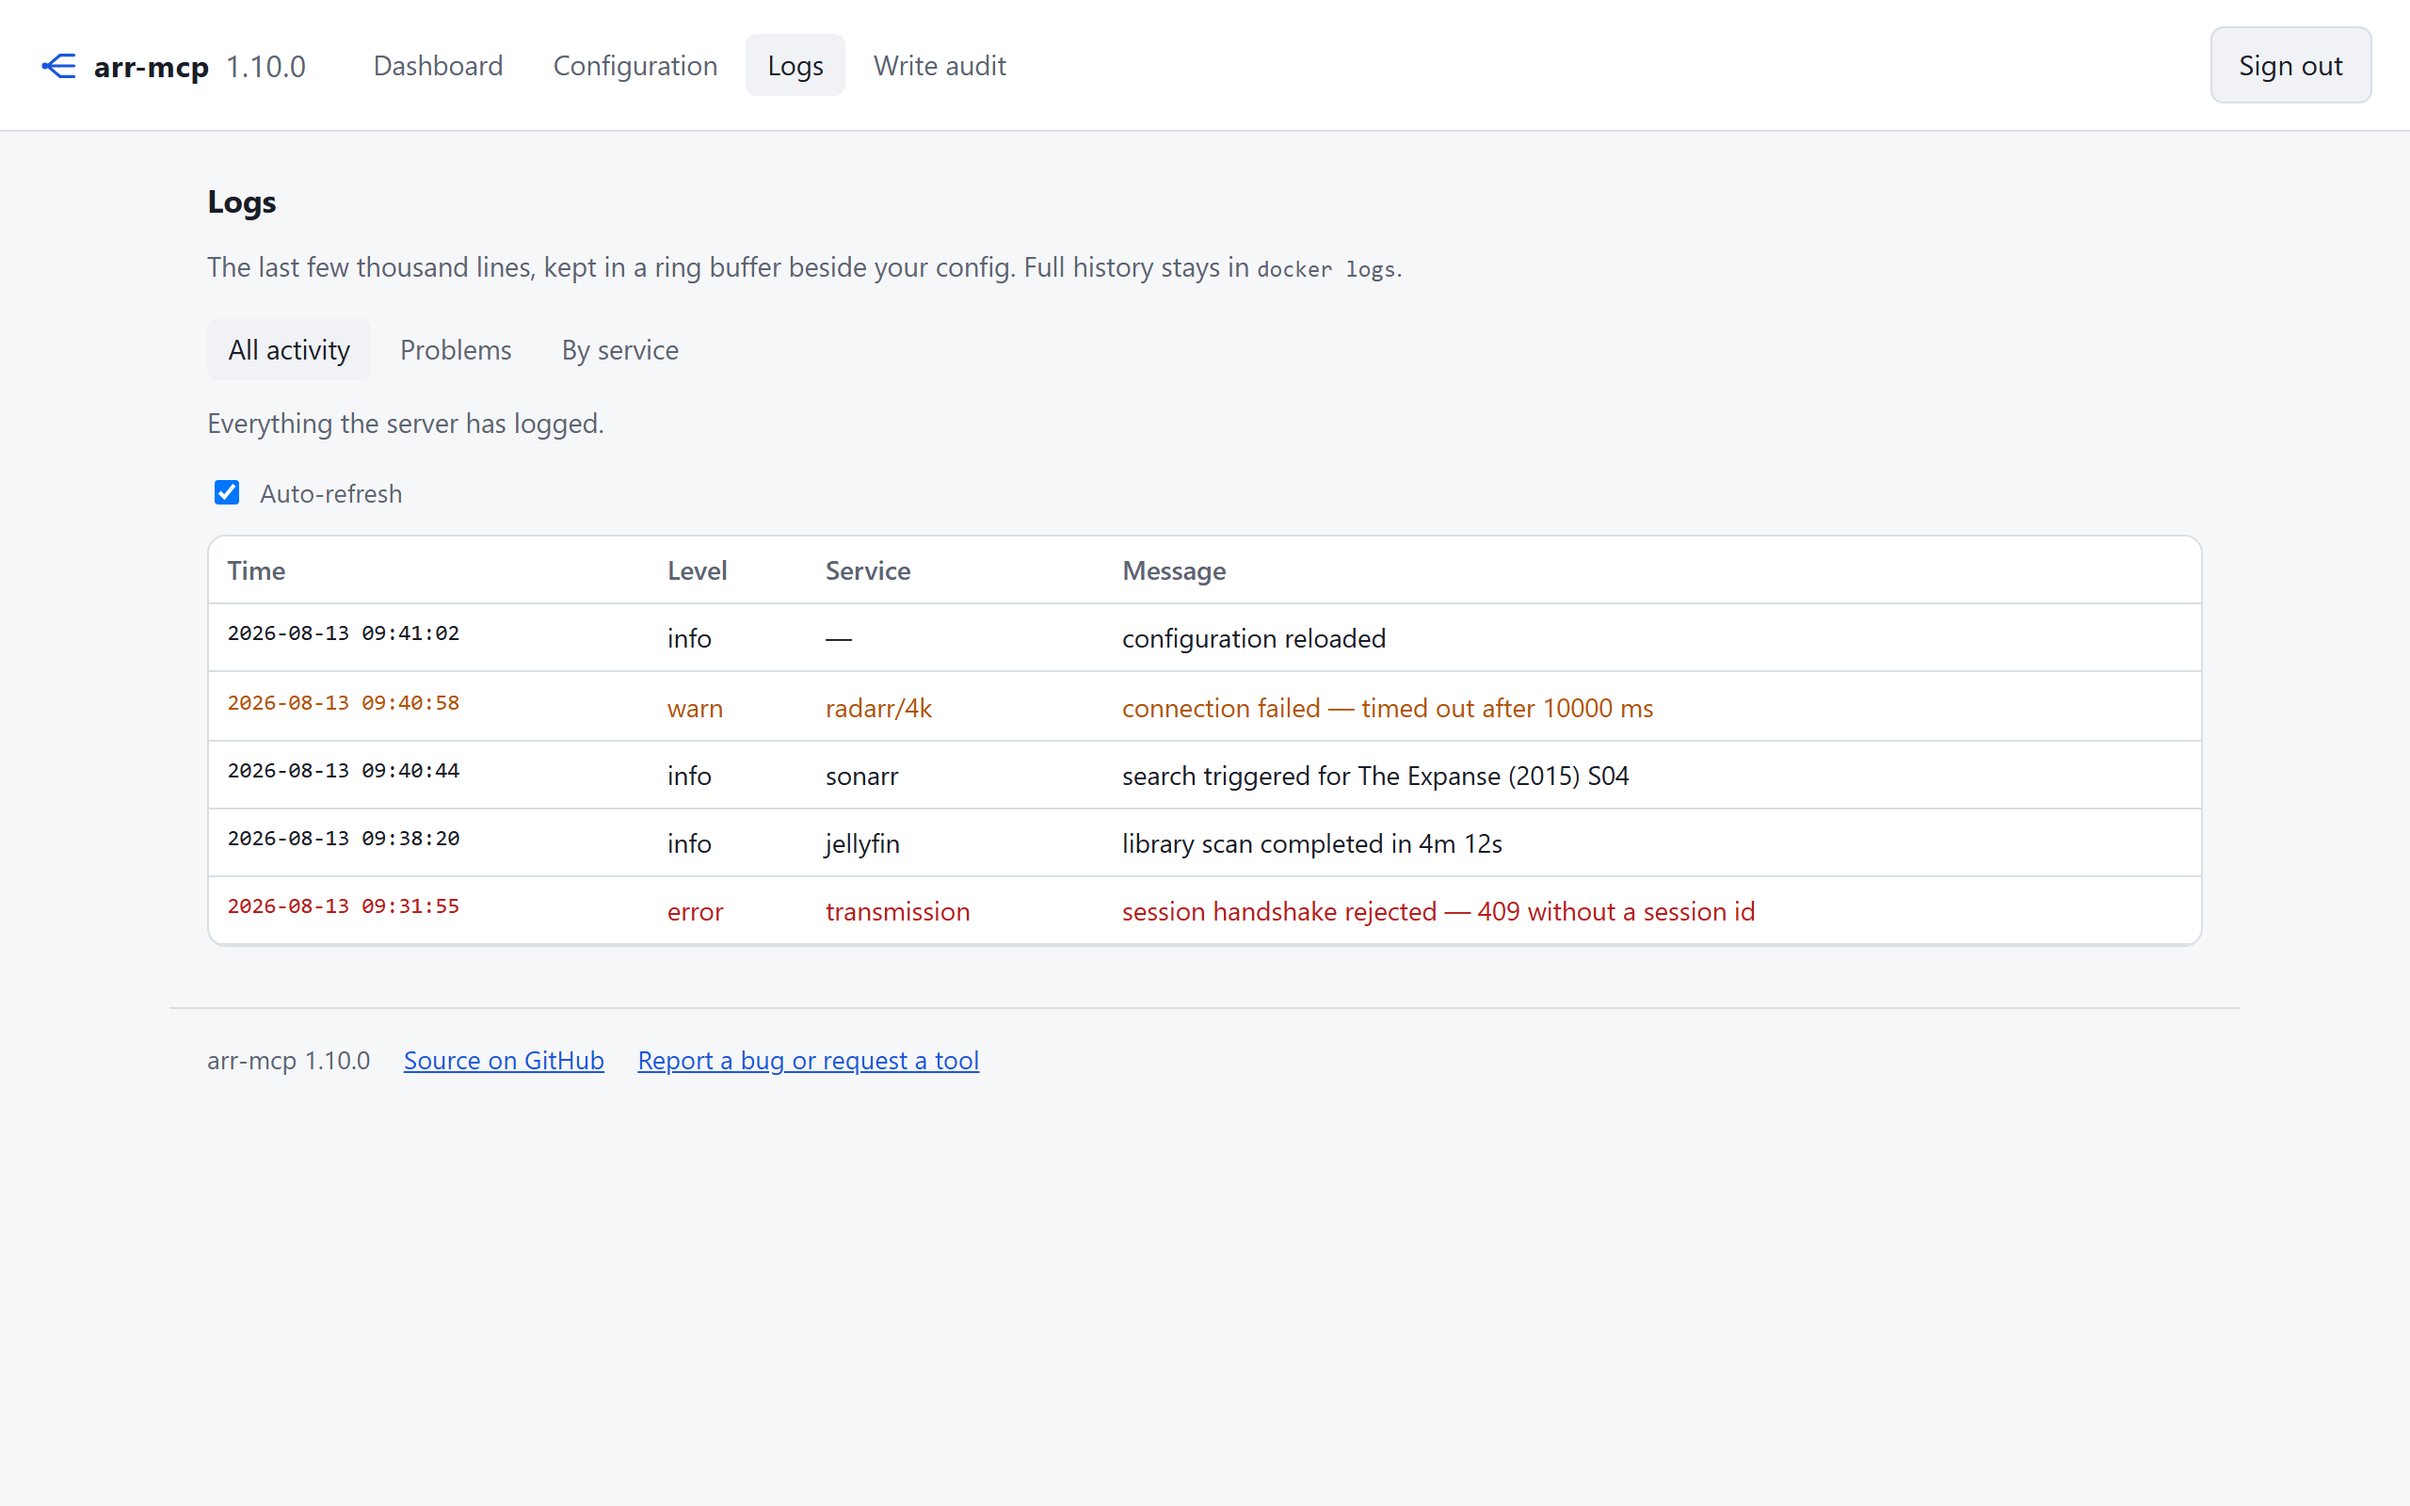
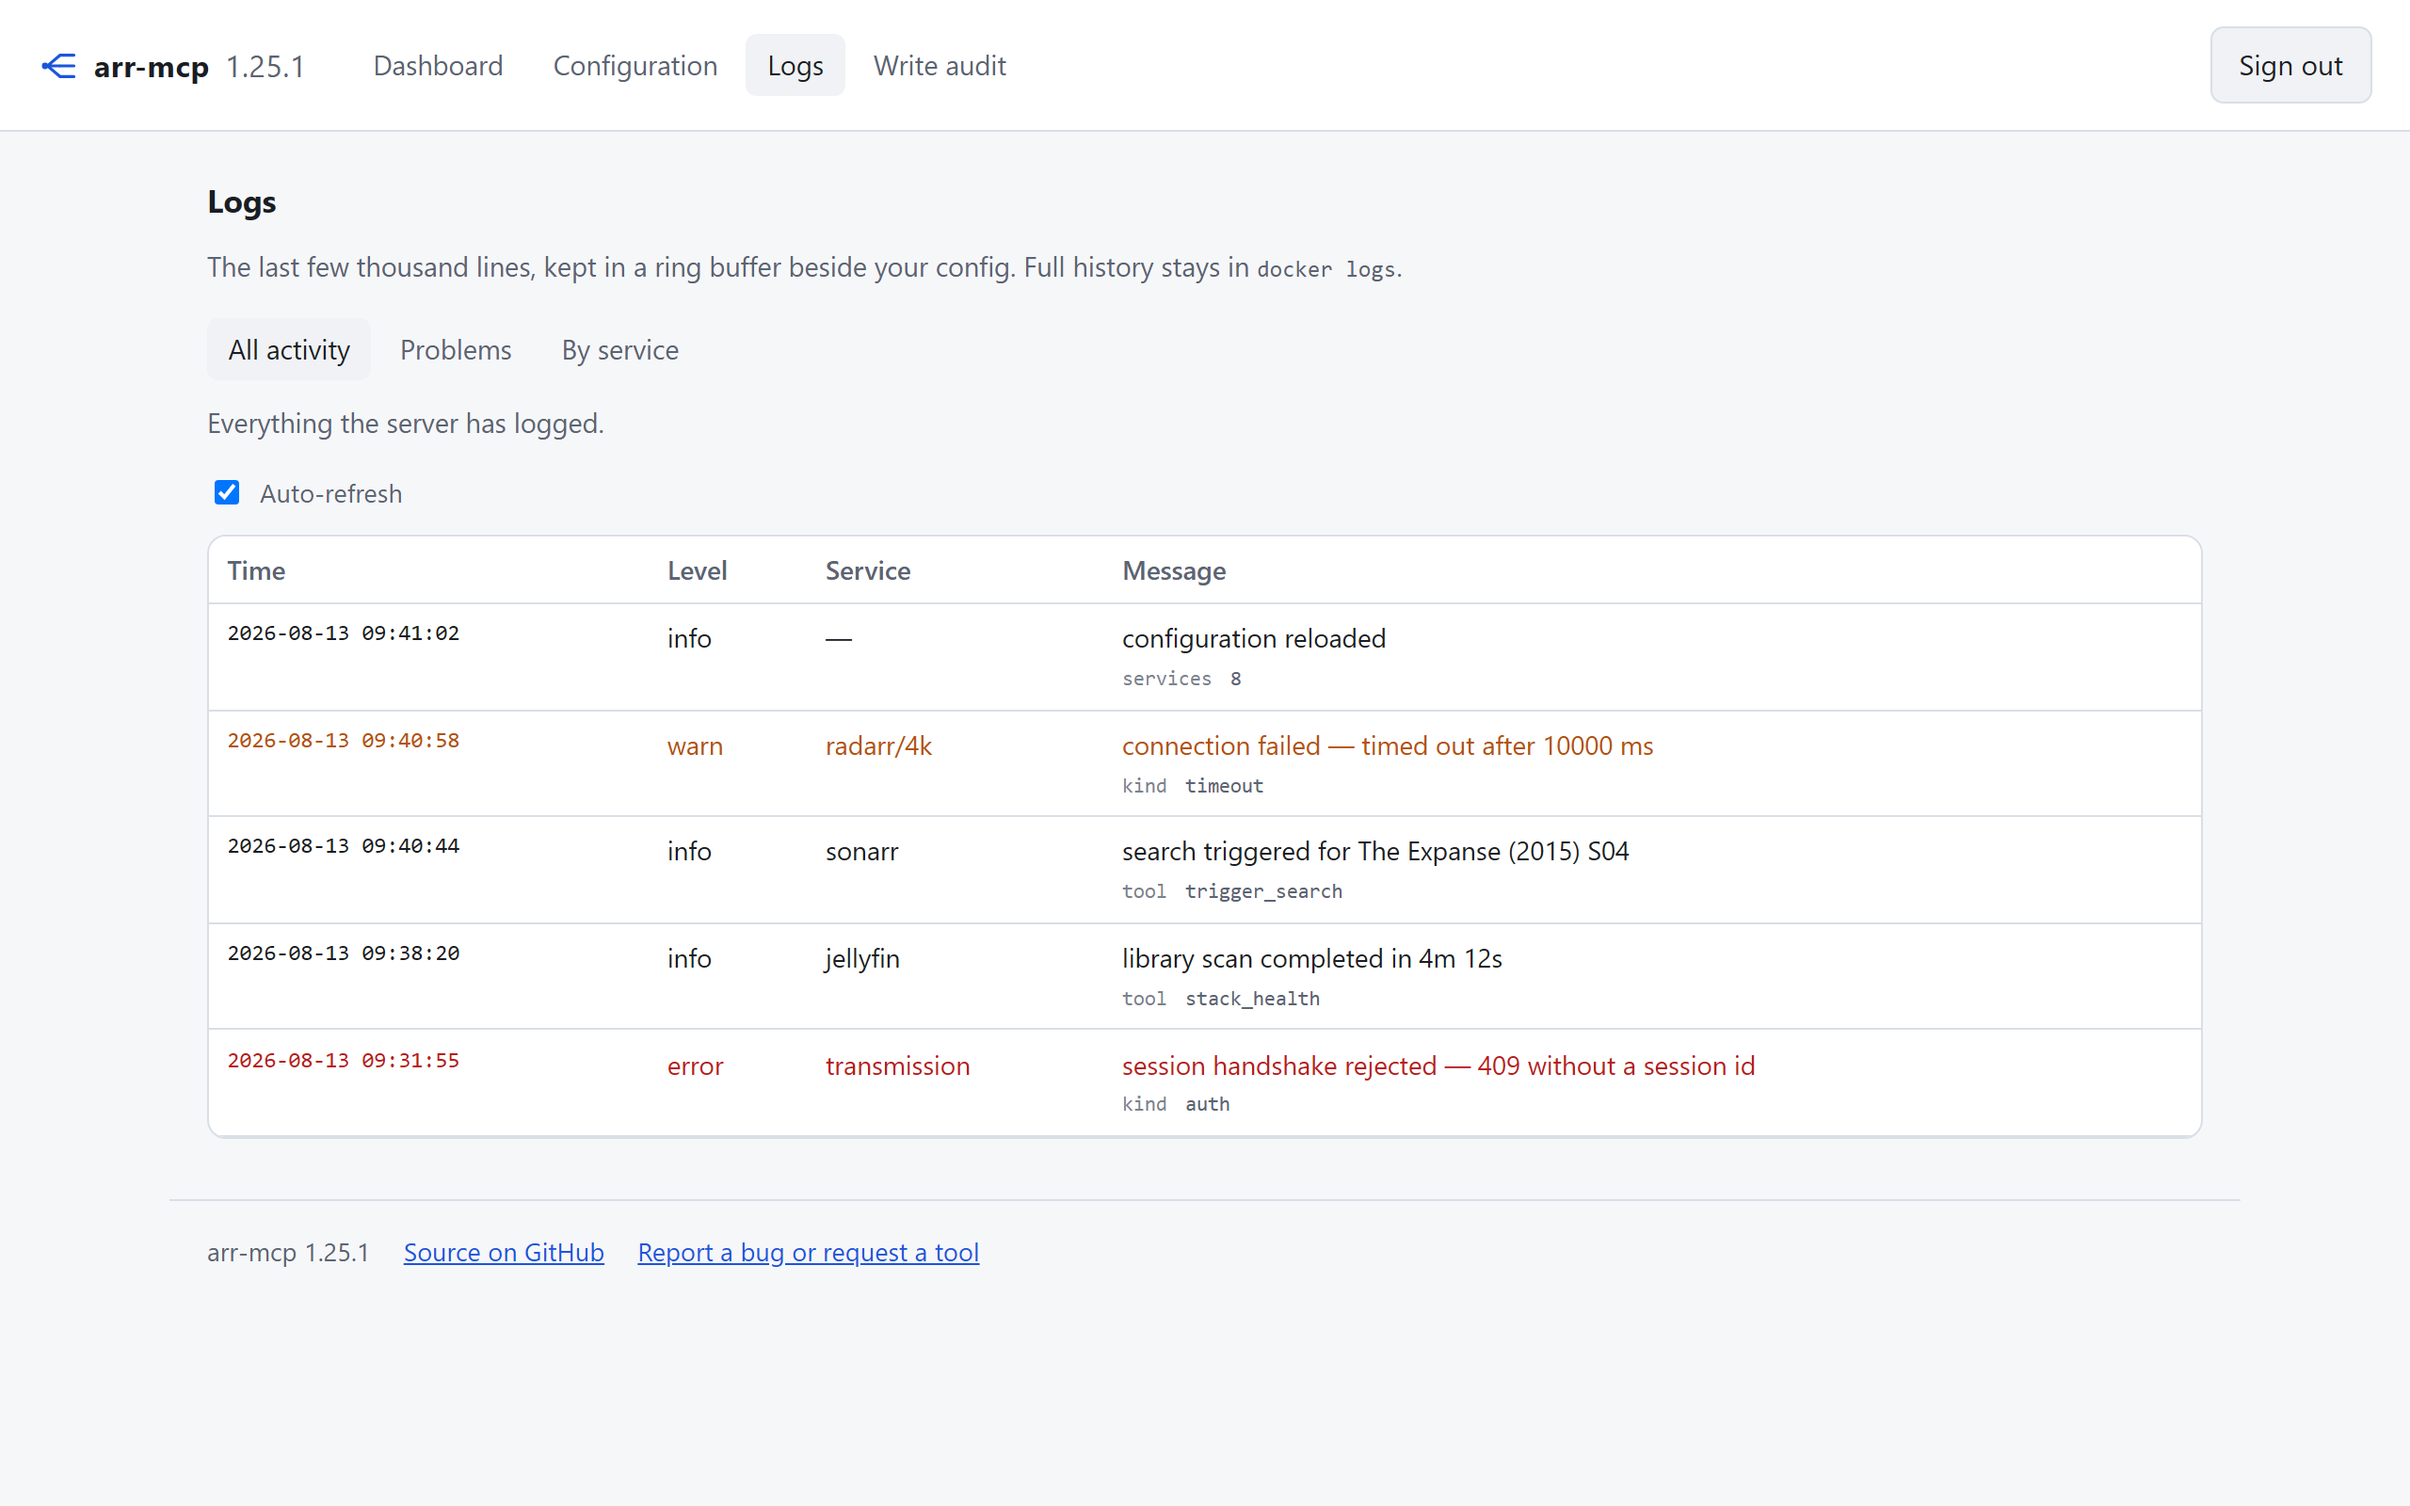
fix(ui): stack the log and problem tables into cards on a phone (#222)
* fix(ui): stack the log and problem tables into cards on a phone

Four columns whose last one is prose have no readable width at 375px.
The three narrow headings wrapped letter by letter -- "Le/ve/l" -- and
the message kept what was left. The cells already carry
overflow-wrap:anywhere so nothing overflowed the page; it was simply
unreadable, which is a different bug and was not fixed by the first one.

The write audit hit this first and answered it by leaving the table for
cards. This applies that answer to the two tables that still needed it,
in CSS alone: the log table is rendered twice, server-side in logTable
and client-side in the live refresh, so anything built out of elements
would have to be built twice and kept in step forever. A class name in
two renderers is the whole change, and a test pins both.

Opt-in by class rather than a rule on every table. Disk space, library
scans and the IMDb status are three short columns each, already
readable, and cards would only make them taller.

* chore: refresh the screenshots

Last regenerated in #132, twelve releases ago. All eight are rebuilt
from the same fixtures at the same 1280x800, so the diff is the UI
moving rather than a reflow.

---------

diff --git a/test/webStackedTables.test.ts b/test/webStackedTables.test.ts
@@ -1,0 +1,95 @@
+import { describe, expect, it } from 'vitest';
+import type { HealthCheck } from '../src/services/types.ts';
+import type { LogRow } from '../src/core/logs.ts';
+import { CSS, JS } from '../src/web/assets.ts';
+import { dashboardPage, logTable } from '../src/web/pages.ts';
+
+const ROWS: LogRow[] = [
+    {
+        id: 1,
+        at: '2026-09-10T02:01:23.975Z',
+        level: 30,
+        levelName: 'info',
+        service: null,
+        msg: 'arr-mcp listening — open the config UI at http://<host>:6060',
+        fields: JSON.stringify({ port: 6060 })
+    },
+    {
+        id: 2,
+        at: '2026-09-09T05:41:34.365Z',
+        level: 40,
+        levelName: 'warn',
+        service: 'seerr',
+        msg: 'source failed; degrading rather than failing',
+        fields: JSON.stringify({ 'err.kind': 'UpstreamError' })
+    }
+];
+
+const FAILURES: HealthCheck[] = [
+    {
+        service: 'sonarr',
+        source: 'health',
+        type: 'IndexerStatusCheck',
+        message: 'Indexers unavailable due to failures for more than 6 hours'
+    }
+];
+
+const dashboard = (failures: HealthCheck[]): string =>
+    dashboardPage({
+        csrf: 'test',
+        version: '0.0.0-test',
+        diagnoses: [],
+        configured: [],
+        bearerToken: 'x'.repeat(64),
+        urlToken: false,
+        writeCounts: { applied: 0, denied: 0, total: 0 },
+        disks: [{ service: 'sonarr', label: '/data', freeSpace: 1, totalSpace: 2 }],
+        failures,
+        scans: [{ service: 'sonarr', running: false, lastCompleted: '2026-09-09T05:00:00Z' }]
+    });
+
+/**
+ * Which tables stack on a phone, and which deliberately do not.
+ *
+ * A four-column table whose last column is prose has no readable width: at
+ * 375px the three narrow headers wrap letter by letter ("Le/ve/l"). The write
+ * audit already answered this by abandoning the table for cards; `.stacked` is
+ * that answer applied to the two tables that still need it, and the class is
+ * what the `max-width: 700px` block keys on.
+ *
+ * The opt-in is the point. Three short columns read fine on a phone and are
+ * worse as cards, so a blanket `table` rule would be a regression for them.
+ */
+describe('stacked tables', () => {
+    it('marks the log table, whose message column is prose', () => {
+        expect(logTable(ROWS).value).toContain('<table class="stacked">');
+    });
+
+    it('marks the dashboard problems table, which has the same shape', () => {
+        expect(dashboard(FAILURES)).toContain('<table class="stacked">');
+    });
+
+    // Disks and scans are three short columns each. If a later edit stacks
+    // every table, this is what says that was not the deal.
+    it('leaves the short tables alone', () => {
+        const plain = dashboard([]);
+        expect(plain).toContain('<table>');
+        expect(plain).not.toContain('stacked');
+    });
+
+    /**
+     * The live refresh rebuilds the same table client-side with createElement
+     * (see `render` in assets.ts), so the class exists in two renderers that
+     * share no code. Drift between them shows up only on a phone, only after
+     * the first auto-refresh tick — which is to say, never, in review.
+     */
+    it('sets the class on the client-rebuilt table too', () => {
+        expect(JS).toContain("table.className = 'stacked'");
+    });
+
+    it('styles the class only under the small-screen breakpoint', () => {
+        const small = CSS.slice(CSS.indexOf('@media (max-width: 700px)'));
+        expect(small).toContain('.stacked');
+        expect(CSS.slice(0, CSS.indexOf('@media (max-width: 700px)'))).not.toContain('.stacked');
+    });
+});

diff --git a/src/web/assets.ts b/src/web/assets.ts
@@ -233,6 +233,34 @@ dialog .panel { margin: 0; border: 0; border-radius: 10px; max-height: 82vh; ove
      and it does not zoom back out, so one tap on a field leaves you scrolled
      sideways across a form you were only trying to type in. */
   input, select, textarea, .token input, #mcp-config { font-size: 16px; }
+
+  /* Tables whose last column is prose, which is the logs and the dashboard's
+     problems and nothing else. Four columns split about 340px on a phone, so
+     the three narrow headings wrap letter by letter — "Le/ve/l" — and the
+     message keeps what is left. The write audit reached this first and
+     answered it by leaving the table for cards; this is that answer applied
+     without a second set of markup, because the log table is rendered twice
+     (server-side here, client-side in JS) and any card built out of elements
+     would have to be built twice too.
+
+     Opt-in by class, not a rule on every table: disks, scans and the IMDb
+     status are three short columns each, already readable, worse as cards. */
+  .stacked, .stacked tbody, .stacked tr, .stacked td { display: block; }
+  .stacked thead { display: none; }
+  .stacked tr { padding: .7rem .85rem; border-bottom: 1px solid var(--line); }
+  .stacked tr:last-child { border-bottom: 0; }
+  .stacked td { border: 0; padding: 0; }
+  /* The short cells rejoined into one meta line above the message. Selected by
+     position rather than by a class, because "the prose column is the last
+     one" is true of both tables and putting it in the markup would hand the
+     two renderers another thing to disagree about.
+
+     The :where wrapper keeps this at zero specificity so tr.lvl-40 td still
+     colours a warning row. Without it the level cell of a warning renders
+     dim, and the level is the one word on that line worth colouring. */
+  .stacked td:where(:not(:last-child)) { display: inline; font-size: .8rem; color: var(--dim); }
+  .stacked td:where(:not(:last-child)) + td:where(:not(:last-child))::before { content: ' · '; }
+  .stacked td:where(:last-child) { margin-top: .35rem; }
 }
 `;
 
@@ -450,6 +478,8 @@ if (stream) {
 
   const render = (rows) => {
     const table = document.createElement('table');
+    // Must match logTable's own class — see the .stacked rules in the CSS.
+    table.className = 'stacked';
     const head = document.createElement('thead');
     const hr = document.createElement('tr');
     for (const label of ['Time', 'Level', 'Service', 'Message']) {

diff --git a/src/web/pages.ts b/src/web/pages.ts
@@ -357,7 +357,7 @@ export function dashboardPage(opts: {
     const problems =
         opts.failures.length === 0
             ? html`<p class="note">Nothing is reporting a problem.</p>`
-            : html`<table>
+            : html`<table class="stacked">
                   <thead><tr><th>Service</th><th>Source</th><th>Type</th><th>Message</th></tr></thead>
                   <tbody>
                       ${opts.failures.map(
@@ -594,7 +594,7 @@ export function logsPage(opts: {
 export function logTable(rows: LogRow[]): SafeHtml {
     if (rows.length === 0) return html`<p class="note">Nothing logged yet for this filter.</p>`;
 
-    return html`<table>
+    return html`<table class="stacked">
         <thead>
             <tr><th>Time</th><th>Level</th><th>Service</th><th>Message</th></tr>
         </thead>

diff --git a/docs/config-ui.md b/docs/config-ui.md
@@ -141,6 +141,17 @@ The navigation becomes a full-width row of its own under the title rather than
 wrapping into it, form fields are large enough that iOS does not zoom the page
 in when you tap one, and no table pushes the page sideways.
 
+**The logs and the dashboard's problems stack into cards.** Not pushing the page
+sideways was never the same as being readable: four columns whose last one is
+prose have no width that works on a phone, so the three narrow headings wrapped
+letter by letter and the message took what was left. Below 700px each row
+becomes a card instead — time, level and service on one line, the message and
+its fields underneath — which is the shape the write audit above already had.
+
+The tables that are three short columns, disk space and library scans and the
+IMDb status, stay tables. They read fine at that width, and cards would only
+make them taller.
+
 ## Signing in
 
 A username and password you choose the first time you open the UI. Only a scrypt
